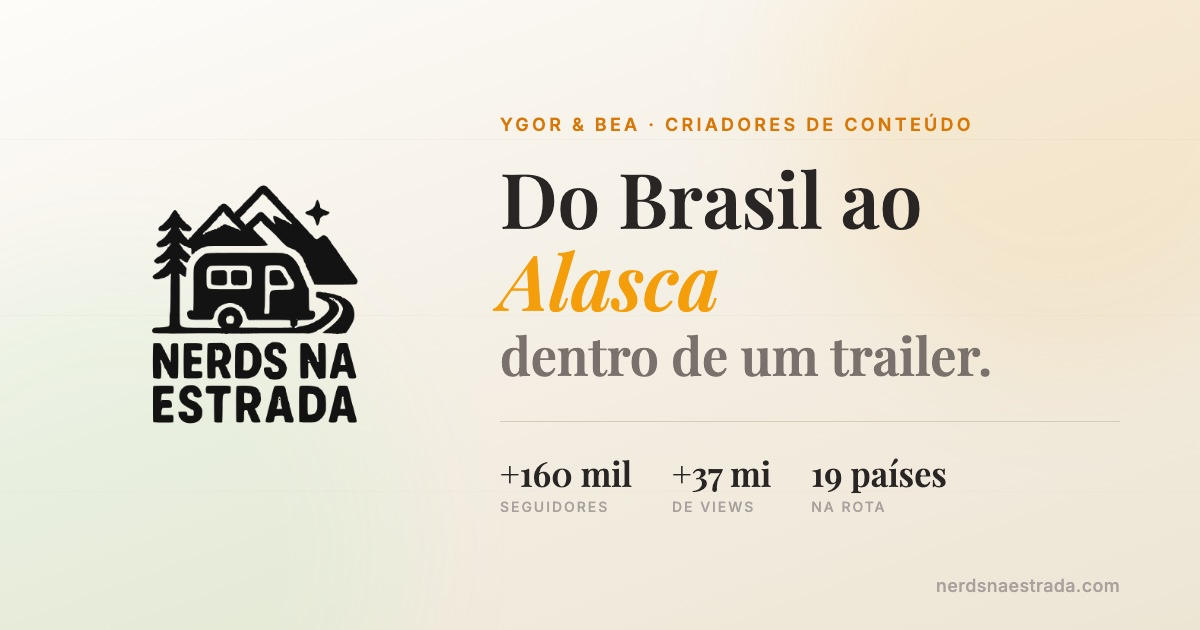
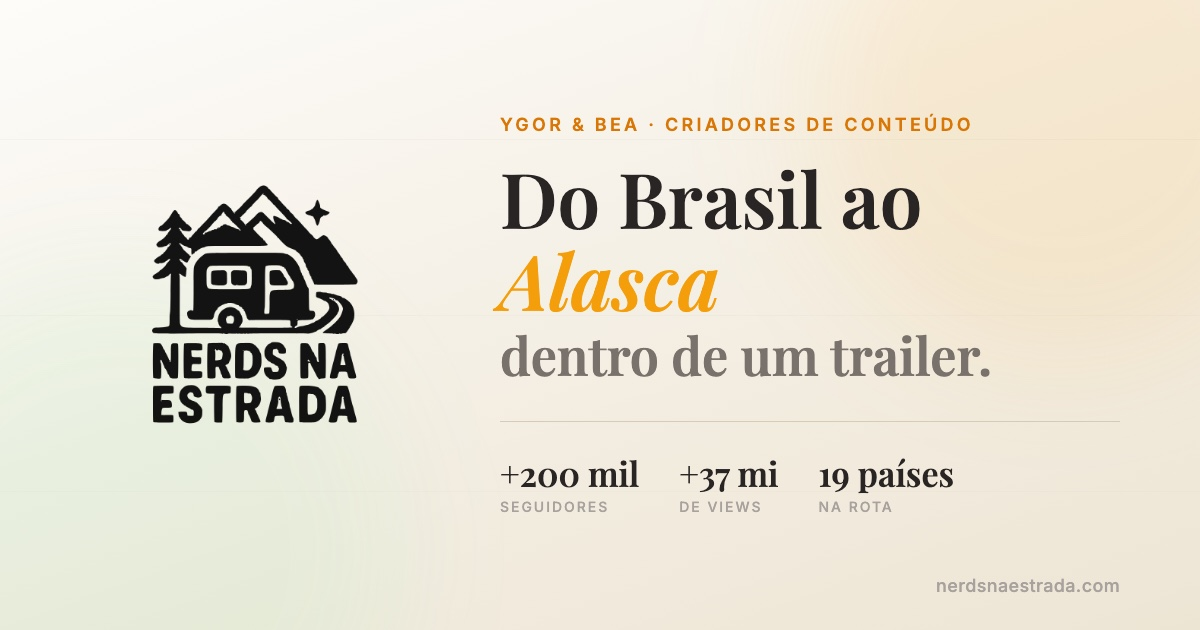
feat: atualiza seguidores para +200 mil com Facebook incluído
Instagram 150 mil, Facebook 22 mil, TikTok 15,6 mil e YouTube 14,7 mil
(outubro de 2026). Atualiza hero, mídia kit, meta tags, llms.txt e og-image.

Changed region(s): [[0.4317, 0.7238, 0.6475, 0.8143], [0.6783, 0.7238, 0.8017, 0.8143]]

diff --git a/index.html b/index.html
@@ -6,7 +6,7 @@
 
     <!-- Primary SEO -->
     <title>Nerds na Estrada | Do Brasil ao Alasca de Trailer</title>
-    <meta name="description" content="Ygor e Bea viajam do Brasil ao Alasca dentro de um trailer Food Truck transformado em motorhome. +160 mil seguidores, +37 milhões de views. Parcerias e publicidade para marcas." />
+    <meta name="description" content="Ygor e Bea viajam do Brasil ao Alasca dentro de um trailer Food Truck transformado em motorhome. +200 mil seguidores, +37 milhões de views. Parcerias e publicidade para marcas." />
     <meta name="keywords" content="nerds na estrada, viagem trailer, brasil alasca, motorhome, nômade digital, criadores de conteúdo, publi instagram, patrocínio viagem, carretera austral, mochilão" />
     <meta name="author" content="Nerds na Estrada" />
     <meta name="robots" content="index, follow" />
@@ -18,7 +18,7 @@
     <meta property="og:url" content="https://www.nerdsnaestrada.com/" />
     <meta property="og:site_name" content="Nerds na Estrada" />
     <meta property="og:title" content="Nerds na Estrada | Do Brasil ao Alasca de Trailer" />
-    <meta property="og:description" content="Dois criadores de conteúdo transformando a América em histórias reais. +37 milhões de views, +160 mil seguidores. Parcerias com marcas autênticas." />
+    <meta property="og:description" content="Dois criadores de conteúdo transformando a América em histórias reais. +37 milhões de views, +200 mil seguidores. Parcerias com marcas autênticas." />
     <meta property="og:image" content="https://www.nerdsnaestrada.com/og-image.jpg" />
     <meta property="og:image:width" content="1200" />
     <meta property="og:image:height" content="630" />
@@ -29,7 +29,7 @@
     <meta name="twitter:card" content="summary_large_image" />
     <meta name="twitter:site" content="@NerdsNaEstrada" />
     <meta name="twitter:title" content="Nerds na Estrada | Do Brasil ao Alasca de Trailer" />
-    <meta name="twitter:description" content="Dois criadores de conteúdo transformando a América em histórias reais. +37 milhões de views, +160 mil seguidores." />
+    <meta name="twitter:description" content="Dois criadores de conteúdo transformando a América em histórias reais. +37 milhões de views, +200 mil seguidores." />
     <meta name="twitter:image" content="https://www.nerdsnaestrada.com/og-image.jpg" />
 
     <!-- WhatsApp / iMessage preview -->

diff --git a/src/components/NumbersStats.jsx b/src/components/NumbersStats.jsx
@@ -1,7 +1,7 @@
 import { useEffect, useRef, useState } from 'react'
 
 const stats = [
-  { value: '+160 mil',   label: 'seguidores',        sub: 'somados nas plataformas'    },
+  { value: '+200 mil',   label: 'seguidores',        sub: 'somados nas plataformas'    },
   { value: '+37 mi',    label: 'de views totais',    sub: 'conteúdo orgânico'          },
   { value: '+3 mi',  label: 'likes',              sub: 'engajamento real'           },
   { value: '56%',       label: 'público feminino',   sub: 'perfil de consumo ativo'    },
@@ -62,7 +62,7 @@ export default function NumbersStats() {
 
         {/* Nota */}
         <p className="mt-6 text-stone-400 text-xs italic">
-          * Dados consolidados das plataformas Instagram, TikTok e YouTube — atualizados em agosto de 2026.
+          * Dados consolidados de Instagram, Facebook, TikTok e YouTube. Seguidores atualizados em outubro de 2026; demais números, em agosto de 2026.
         </p>
       </div>
     </section>

diff --git a/src/components/HeroSection.jsx b/src/components/HeroSection.jsx
@@ -82,7 +82,7 @@ export default function HeroSection() {
           style={{ animationDelay: '0.4s', opacity: 0 }}
         >
           {[
-            { num: '+160 mil', label: 'seguidores'    },
+            { num: '+200 mil', label: 'seguidores'    },
             { num: '+37 mi',   label: 'de views'      },
             { num: '+3 mi',    label: 'likes'          },
             { num: '5 países', label: 'já visitados'  },
